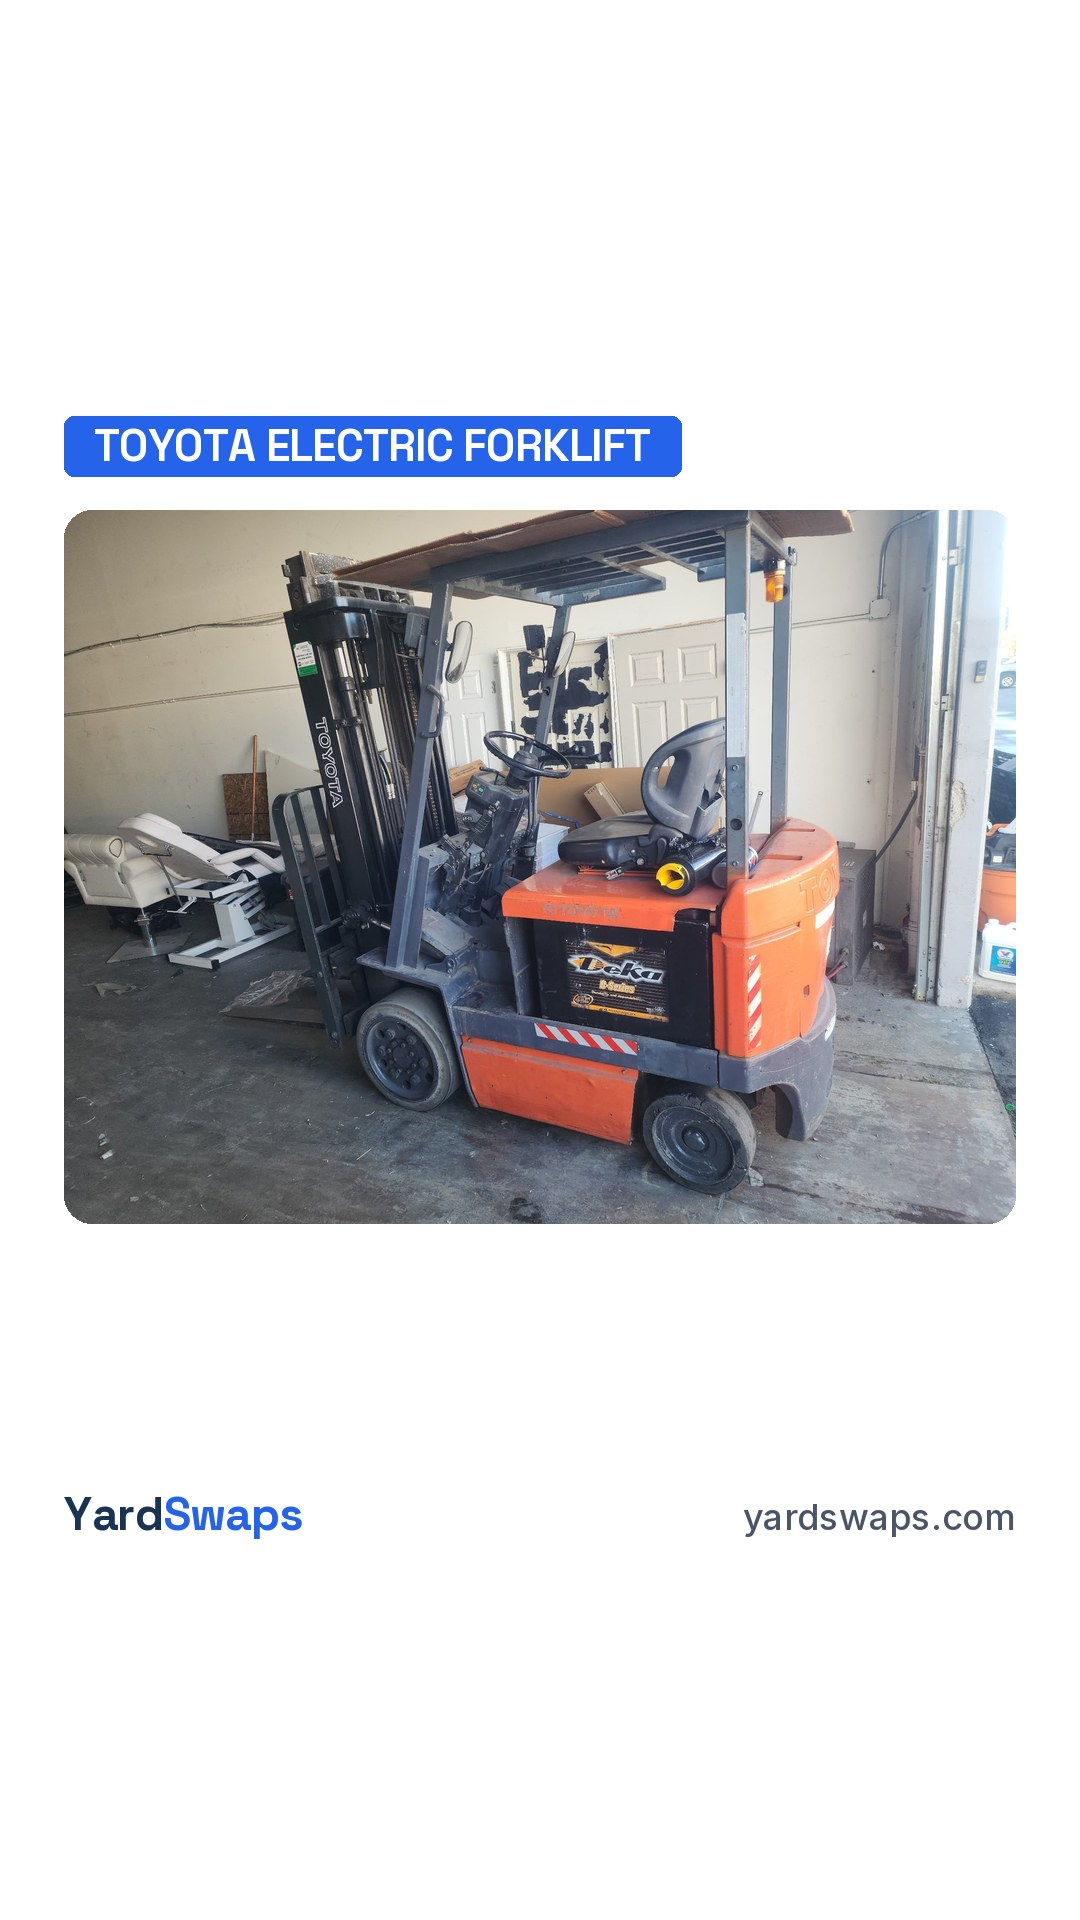
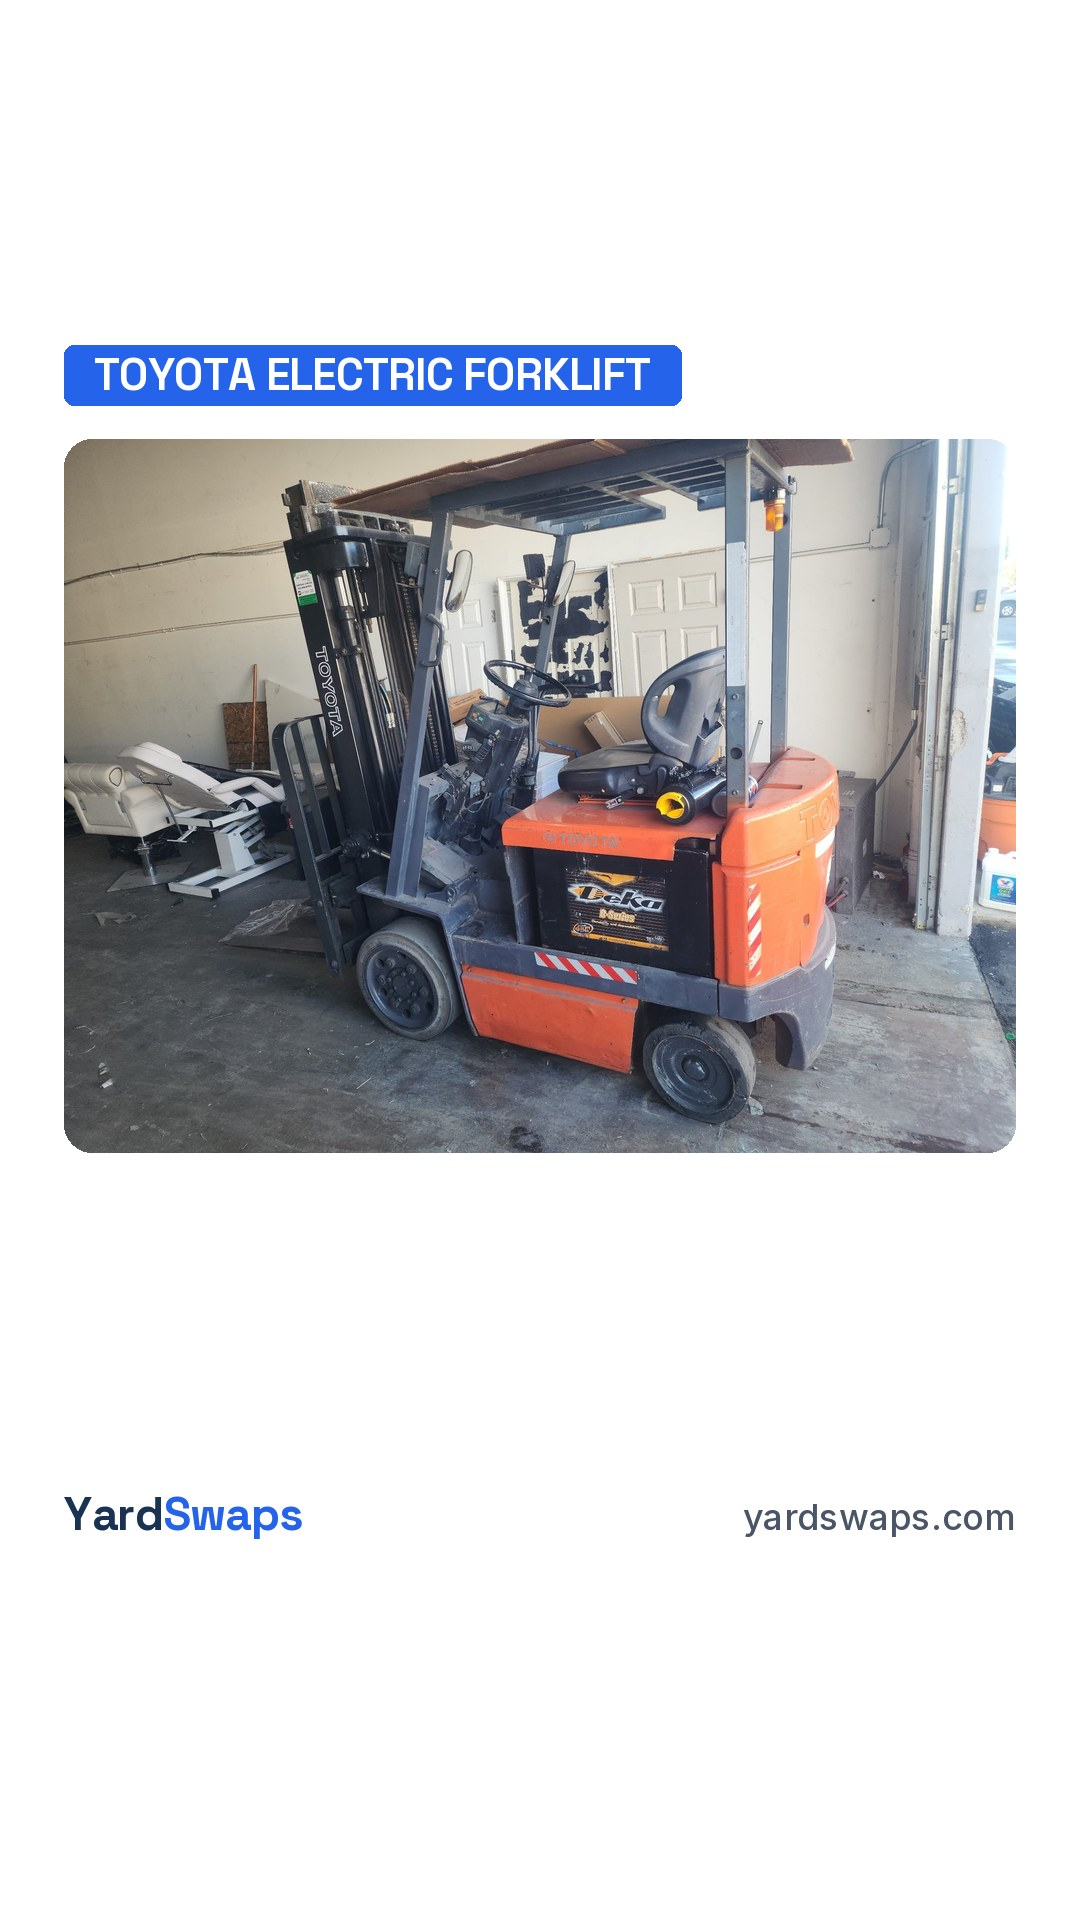
HeyCatch backgrounds fit its 4:5 slide; Saturday's first linked Story is scheduled
HeyCatch shows a slideshow slide as the middle 1080 x 1350 of the plate, so tall photos lost their
blue tag at the top. The plates now start the tag and photo at the same height inside that window and
leave a white band under the photo for the caption. README notes what loading them taught us.

Saturday 2026-11-28: the 9:30 am CT seller Story is scheduled in Business Suite, so the automatic
Story is skipped that day.

Claude-Session: https://claude.ai/code/session_01LSYGzeUgq9fnmqx8BJzKeC

Changed region(s): [[0.0611, 0.1562, 0.9472, 0.6562], [0.0611, 0.3125, 0.1222, 0.3438]]

diff --git a/brand/heycatch/make_plates.py b/brand/heycatch/make_plates.py
@@ -5,7 +5,12 @@ Alan, 2026-11-26: "Heychat allows to setup own images". HeyCatch (app.heycatch.a
 "Background images and videos") takes our own pictures and lays its caption over them. Until now it drew on
 stock pictures, old app screens and trending memes. These plates are what it gets instead: one real listing
 photo each, shown whole on white, the item named on the one blue tag, the wordmark once. No headline, because
-HeyCatch writes its own line on top; nothing to read in the top 200 px or the bottom 340 px.
+HeyCatch writes its own line on top.
+
+HeyCatch shows a slideshow slide as 4:5: the middle 1080 x 1350 of the plate (y 285 to 1635). So the tag, the
+photo and the wordmark all sit inside that window, the tag and the photo start at the same height on every
+plate (slides line up when you swipe), and a white band is left under the photo for the caption, which is
+dragged there in HeyCatch's editor so nothing covers the photo.
 
   python3 brand/heycatch/make_plates.py SRC_DIR     # SRC_DIR holds the listing photos named in PLATES
 
@@ -22,8 +27,8 @@ sys.path.insert(0, os.path.join(os.path.dirname(HERE), "posts"))
 import kit  # noqa: E402
 
 W, H = 1080, 1920
-SAFE_TOP, SAFE_END = 200, 1440   # the tag and the photo sit centred between these, as one group
-BOX_H = 1080                     # the tallest a photo is shown
+TAG_TOP = 345                    # same on every plate; 60 px inside the 4:5 window HeyCatch shows
+BOX_H = 800                      # the tallest a photo is shown; the caption band is what is left under it
 TAG_SIZE, TAG_GAP = 44, 34       # the tag sits this far above the photo, on the photo's left edge
 WM_BASE = 1530
 
@@ -61,7 +66,7 @@ def plate(photo, tag):
     card = kit.card(photo, W - 2 * kit.M, BOX_H, radius=28)
     tag_h = round(kit.TAG_H * TAG_SIZE / kit.SIZE_TAG)
     x = (W - card.width) // 2
-    top = SAFE_TOP + (SAFE_END - SAFE_TOP - tag_h - TAG_GAP - card.height) // 2
+    top = TAG_TOP
     kit.tag(img, tag, x=x, top=top, size=TAG_SIZE, width=card.width)
     img.paste(card, (x, top + tag_h + TAG_GAP), card)
     kit.wordmark_row(img, WM_BASE)

diff --git a/brand/heycatch/README.md b/brand/heycatch/README.md
@@ -10,3 +10,18 @@ writes its own line on top. `make_plates.py SRC_DIR` rebuilds them from a folder
 
 Rules: real listing photos only (no stock, AI or Canva pictures), no faces, plates or phone numbers, and no
 price or "for sale" on a plate, because a queued post can go out weeks later, after the item has sold.
+
+## What we learned loading them (2026-11-26)
+
+- A slideshow slide is 4:5: HeyCatch shows the middle 1080 x 1350 of the plate. The plates keep the tag, the
+  photo and the wordmark inside that window and leave a white band under the photo.
+- Settings ("Only mine", remixes "Never") change new ideas only. Posts already queued and ideas already
+  waiting in the deck keep their old pictures.
+- An idea can be rebuilt by hand before it is approved: Edit, then per slide "Choose image" (our library,
+  search by file name), double-click the caption to rewrite it, drag it into the white band under the photo,
+  Preview, Save. Saving does not approve it.
+- Rewrite HeyCatch's wording against MESSAGING.md before approving: it likes the category count, "free
+  dealer storefront" and "post in 60 seconds", none of which we say.
+- Only the slideshow format reads on a white plate. The other three formats use a person cutout or a video
+  clip with thin outlined text.
+- Free: swipes (20 a day), per-post edits, "Regenerate videos". Costs credits: the "+" for more ideas. Don't.
